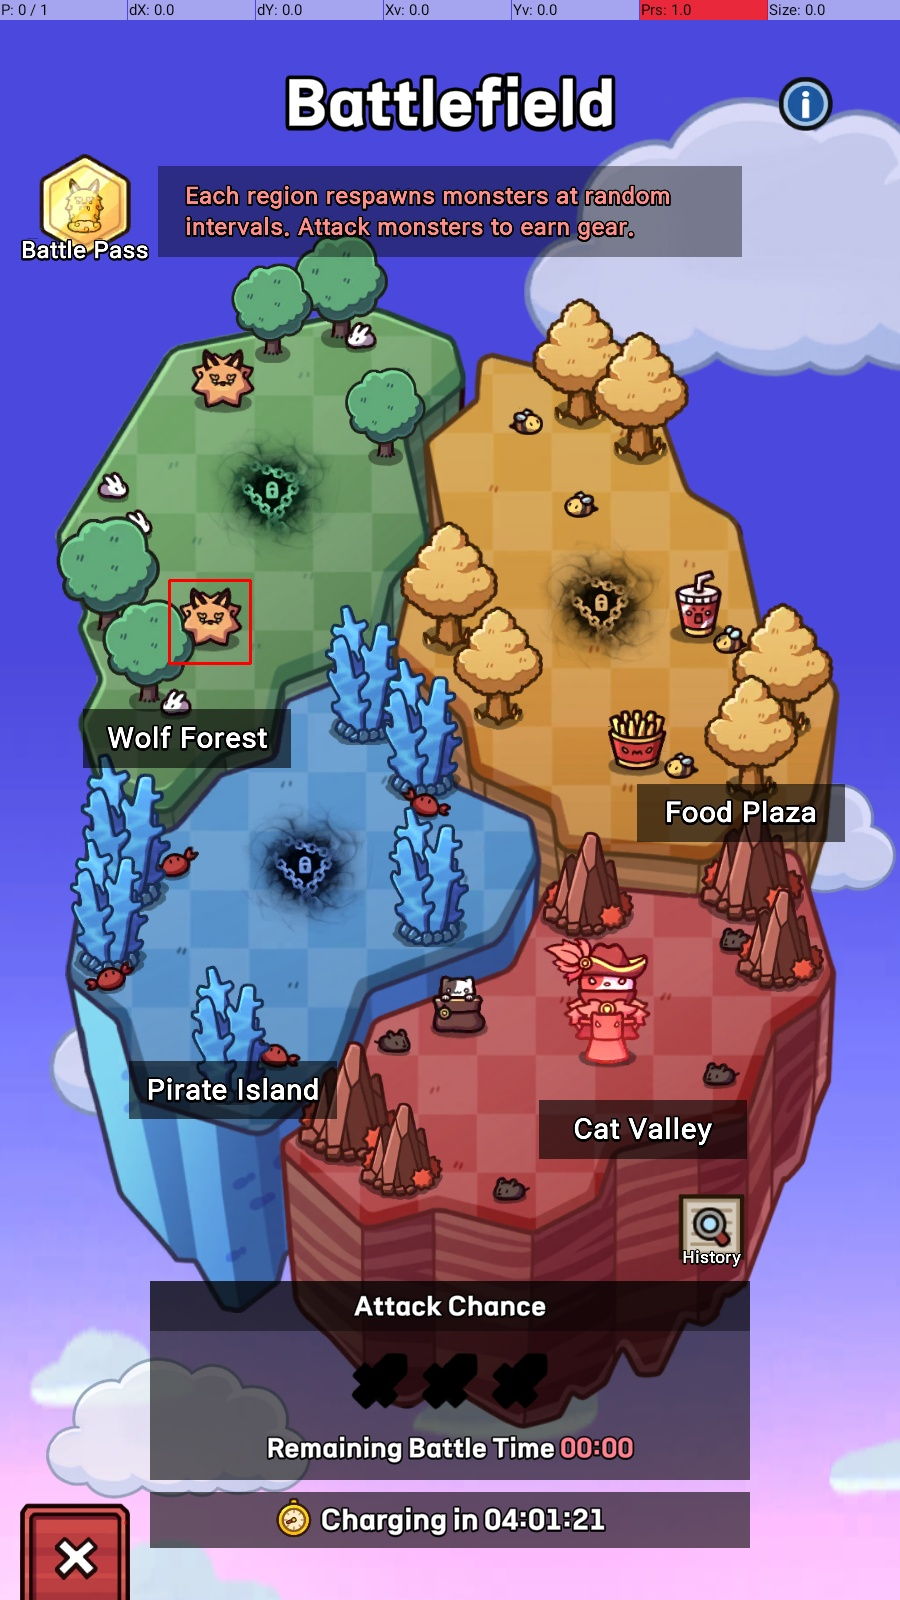
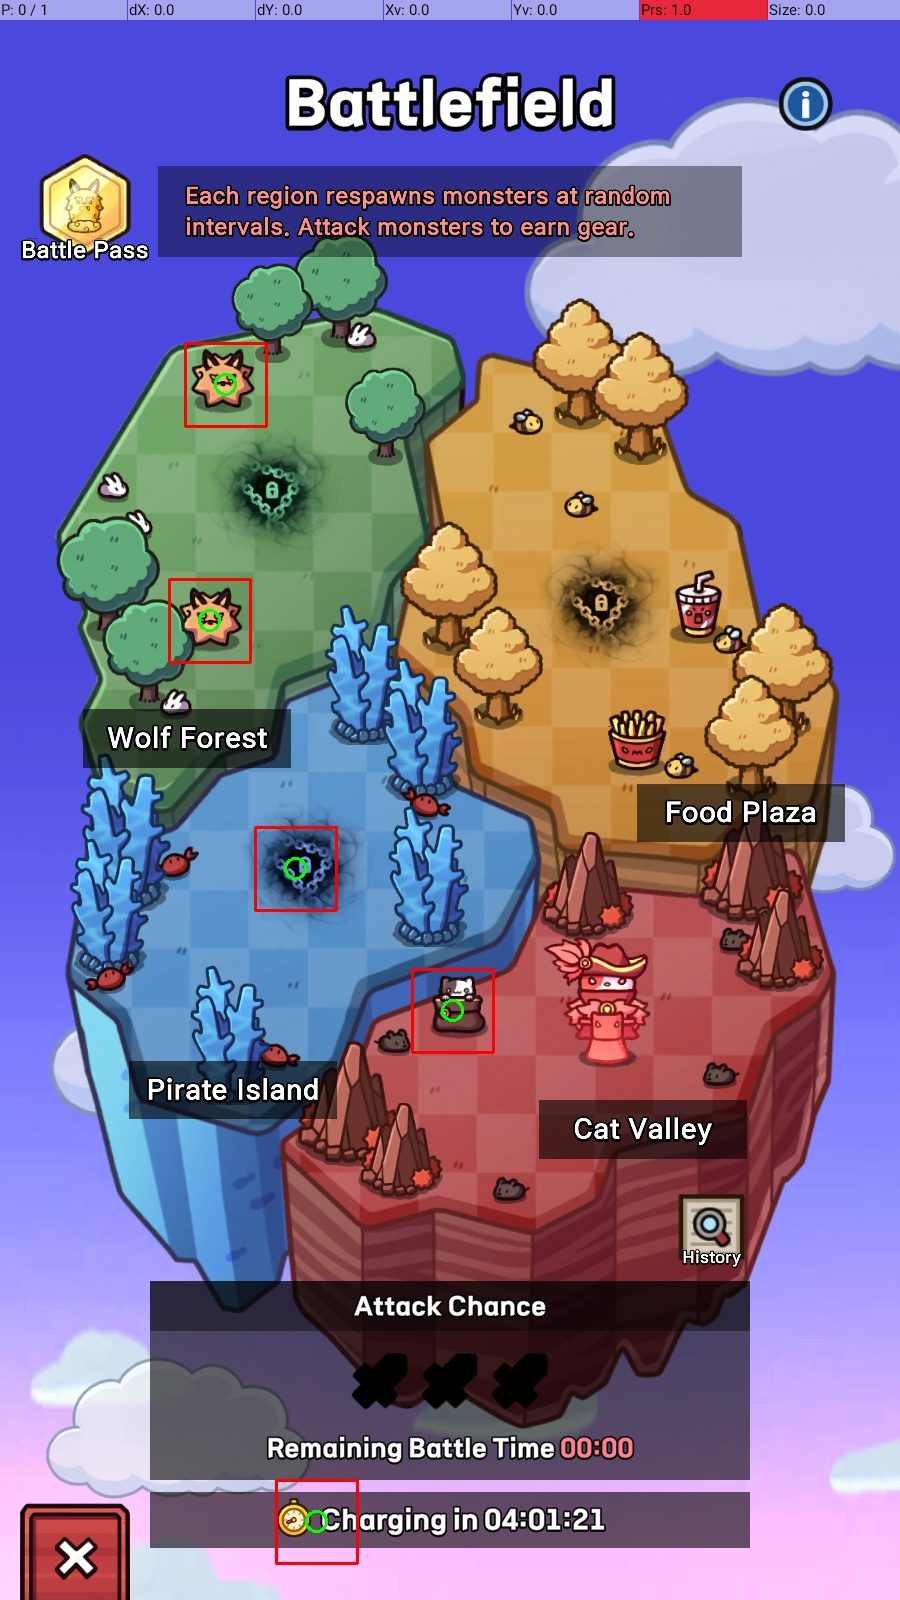
change

diff --git a/findimage.py b/findimage.py
@@ -1,32 +1,70 @@
 import cv2
 import numpy as np
 
-# Load the images
-image = cv2.imread("target_image.jpg")
-template = cv2.imread("gv_ui_battlefield_monster_mini_icon_0009.png")
+def preprocess_image(image_path):
+    image = cv2.imread(image_path, cv2.IMREAD_GRAYSCALE)
+    return image
 
-# Get dimensions of the template
-h, w = template.shape[:2]
+def edge_detect_image(image):
+    edges = cv2.Canny(image, 50, 200)
+    return edges
 
-# Perform template matching
-result = cv2.matchTemplate(image, template, cv2.TM_CCOEFF_NORMED)
-min_val, max_val, min_loc, max_loc = cv2.minMaxLoc(result)
+def check_exists_multiple(large_image_path, template_path, top_n, min_distance=10, threshold=0.7):
+    large_image = preprocess_image(large_image_path)
+    template = preprocess_image(template_path)
+    template_height, template_width = template.shape
 
-# Check if the maximum match value is above a certain threshold
-if max_val > 0.1:
-    # If a match is found, calculate the top-left and bottom-right corners of the bounding box
-    top_left = max_loc
-    bottom_right = (top_left[0] + w, top_left[1] + h)
+    large_edges = edge_detect_image(large_image)
+    template_edges = edge_detect_image(template)
 
-    # Calculate the center of the rectangle
-    center_x = top_left[0] + w // 2
-    center_y = top_left[1] + h // 2
+    result = cv2.matchTemplate(large_edges, template_edges, cv2.TM_CCOEFF)
+    sorted_results = []
 
-    # Draw the rectangle around the matched region
-    cv2.rectangle(image, top_left, bottom_right, (0, 255, 0), 2)
+    while len(sorted_results) < top_n:
+        min_val, max_val, min_loc, max_loc = cv2.minMaxLoc(result)
 
-    # Save the result
-    cv2.imwrite('result2.png', image)
-    print(f"Match center found: X={center_x}, Y={center_y}")
-else:
-    print("No sufficient match found.")
+        if max_val < threshold:
+            break
+
+        is_far_enough = True
+        for _, existing_loc in sorted_results:
+            distance = np.sqrt((existing_loc[0] - max_loc[0]) ** 2 + (existing_loc[1] - max_loc[1]) ** 2)
+            if distance < min_distance:
+                is_far_enough = False
+                break
+
+        if is_far_enough:
+            sorted_results.append((max_val, max_loc))
+
+        result[max_loc[1], max_loc[0]] = -1
+
+        if max_val < 0:
+            break
+
+    middle_coords = []
+    for score, pt in sorted_results:
+        middle_x = pt[0] + template_width / 2
+        middle_y = pt[1] + template_height / 2
+        middle_coords.append((middle_x, middle_y, pt[0], pt[1], template_width, template_height))
+
+    return middle_coords
+
+def find_and_circle_template(target_image_path, template_path, output_path, top_n=5, min_distance=10, threshold=0.7):
+    target_image = cv2.imread(target_image_path)
+    coordinates = check_exists_multiple(target_image_path, template_path, top_n, min_distance, threshold)
+
+    for coord in coordinates:
+        middle_x, middle_y, start_x, start_y, template_width, template_height = coord
+        end_x, end_y = start_x + template_width, start_y + template_height
+        cv2.rectangle(target_image, (start_x, start_y), (end_x, end_y), (0, 0, 255), 2)
+        cv2.circle(target_image, (int(middle_x), int(middle_y)), 10, (0, 255, 0), 2)
+
+    cv2.imwrite(output_path, target_image)
+
+# File paths
+target_image_path = 'screenshot.png'
+template_path = 'gv_ui_battlefield_monster_mini_icon_0000.png'
+output_path = 'output_image.jpg'
+
+# Find and circle the top N matches
+find_and_circle_template(target_image_path, template_path, output_path, top_n=5, min_distance=10, threshold=0.7)

diff --git a/testfind.py b/testfind.py
@@ -1,0 +1,74 @@
+import cv2
+import numpy as np
+
+def check_exists_multiple(large_image_path, template_path, top_n, min_distance=10, threshold=0.7, method=cv2.TM_CCOEFF_NORMED):
+    large_image = cv2.imread(large_image_path)
+    template = cv2.imread(template_path)
+    template_height, template_width, _ = template.shape
+    result = cv2.matchTemplate(large_image, template, method)
+    sorted_results = []
+
+    while len(sorted_results) < top_n:
+        min_val, max_val, min_loc, max_loc = cv2.minMaxLoc(result)
+
+        # Check if the similarity score is above the threshold
+        if max_val < threshold:
+            break
+        
+        # Check if the new location is sufficiently far from existing locations
+        is_far_enough = True
+        for _, existing_loc in sorted_results:
+            distance = np.sqrt((existing_loc[0] - max_loc[0]) ** 2 + (existing_loc[1] - max_loc[1]) ** 2)
+            if distance < min_distance:
+                is_far_enough = False
+                break
+        
+        if is_far_enough:
+            sorted_results.append((max_val, max_loc))
+        
+        # Set the found location to a low value to find the next highest match
+        result[max_loc[1], max_loc[0]] = -1
+
+        # Break if there are no more valid matches
+        if max_val < 0:
+            break
+
+    # Calculate the middle coordinates for the top N found locations
+    middle_coords = []
+    for score, pt in sorted_results:
+        middle_x = pt[0] + template_width / 2
+        middle_y = pt[1] + template_height / 2
+        middle_coords.append((middle_x, middle_y, pt[0], pt[1], template_width, template_height))
+
+    return middle_coords
+
+def find_and_circle_template(target_image_path, template_path, output_path, top_n=5, min_distance=10, threshold=0.7):
+    methods = {
+        'TM_CCOEFF': cv2.TM_CCOEFF, 
+        'TM_CCOEFF_NORMED': cv2.TM_CCOEFF_NORMED, 
+        'TM_CCORR': cv2.TM_CCORR,
+        'TM_CCORR_NORMED': cv2.TM_CCORR_NORMED, 
+        'TM_SQDIFF': cv2.TM_SQDIFF, 
+        'TM_SQDIFF_NORMED': cv2.TM_SQDIFF_NORMED
+    }
+
+    for method_name, method in methods.items():
+        target_image = cv2.imread(target_image_path)
+        coordinates = check_exists_multiple(target_image_path, template_path, top_n, min_distance, threshold, method)
+
+        for coord in coordinates:
+            middle_x, middle_y, start_x, start_y, template_width, template_height = coord
+            end_x, end_y = start_x + template_width, start_y + template_height
+            cv2.rectangle(target_image, (start_x, start_y), (end_x, end_y), (0, 0, 255), 2)
+            cv2.circle(target_image, (int(middle_x), int(middle_y)), 10, (0, 255, 0), 2)
+
+        method_output_path = output_path.replace('.jpg', f'_{method_name}.jpg')
+        cv2.imwrite(method_output_path, target_image)
+
+# File paths
+target_image_path = 'screenshot.png'
+template_path = 'wolf_small.png'
+output_path = 'output_image.jpg'
+
+# Find and circle the top N matches using different methods
+find_and_circle_template(target_image_path, template_path, output_path, top_n=5, min_distance=10, threshold=0.7)
